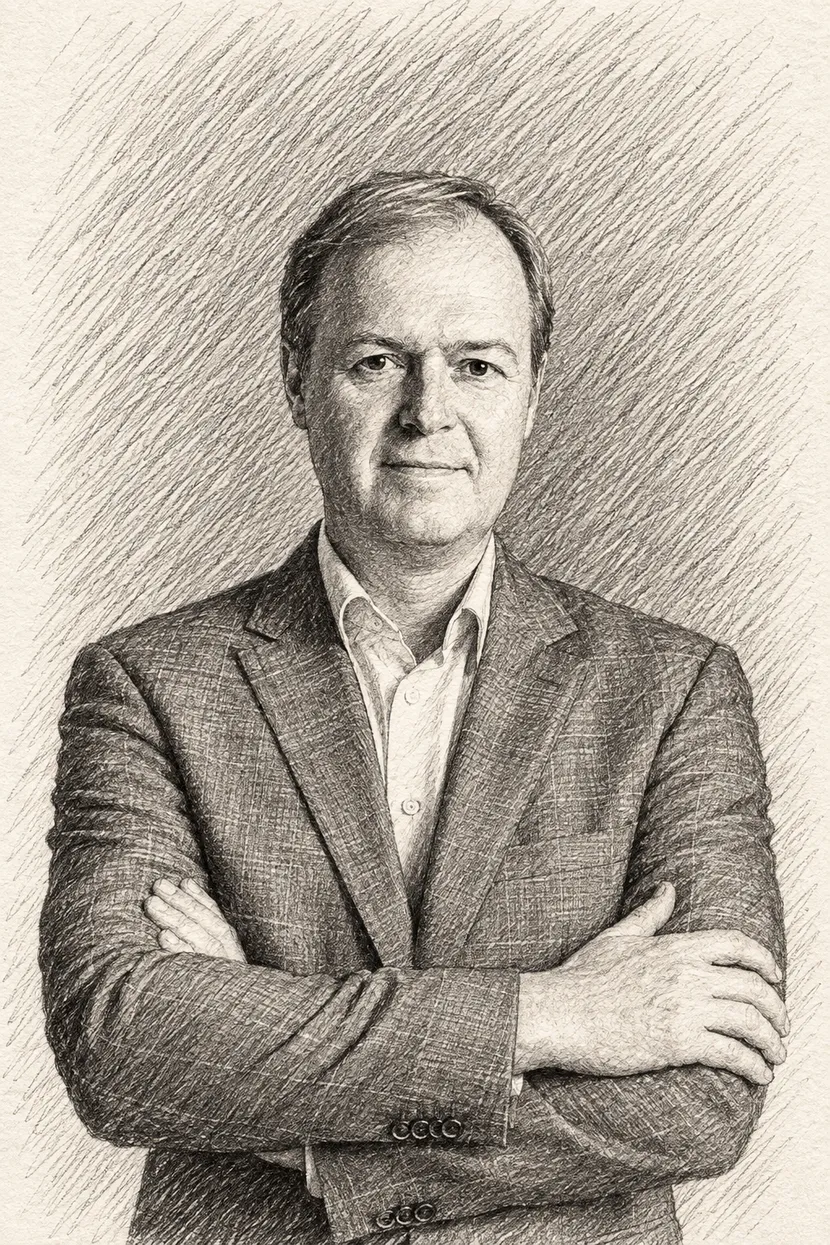
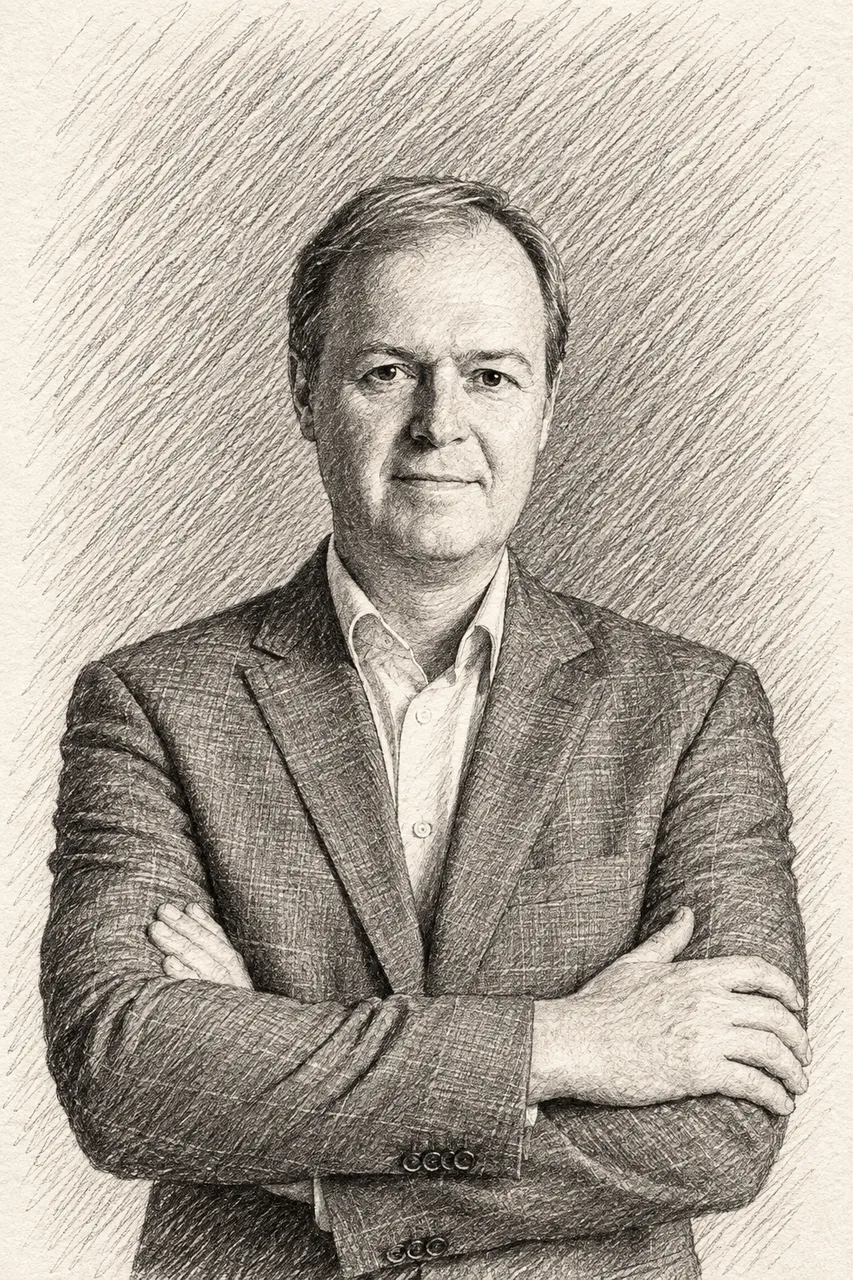
team: персональный зум фото (photoScale, Кошкин 1.15), новые фото Марины и Насти

diff --git a/fexperience/src/data/speakers.ts b/fexperience/src/data/speakers.ts
@@ -13,6 +13,7 @@ export type Speaker = {
   forbesBadge?: string; // текст бейджа Forbes на фото (если не указан — не показывается)
   forbesLabel?: string; // текст подписи Forbes в карточке (если не указан — не показывается)
   isForbes?: boolean; // команда Forbes Russia — блок «Наши эксперты» на /about
+  photoScale?: number; // персональный зум фото (1 = без изменений), чтобы выровнять крупность портретов
   linkedin?: string; // ссылка LinkedIn (иконка только при наличии)
   expeditionSlugs?: string[]; // slug экспедиций (спикер может быть на нескольких)
   category?: 'business' | 'investment' | 'government' | 'africa' | 'other' | 'pravo';
@@ -77,7 +78,7 @@ export const speakers: Speaker[] = [
     expeditionSlugs: ['south-africa'], category: 'business'
   },
   {
-    id: 10, name: 'Марина Матыцина', role: 'Генеральный директор Forbes Russia.', company: 'Forbes Russia', photo: '/images/speakers/MaticinaM.jpeg', photoAlt: 'Марина Матыцина — Генеральный директор Forbes Russia.',
+    id: 10, name: 'Марина Матыцина', role: 'Генеральный директор Forbes Russia.', company: 'Forbes Russia', photo: '/images/speakers/MaticinaM1_1.webp', photoAlt: 'Марина Матыцина — Генеральный директор Forbes Russia.',
     bio: '', isTop: true, topic: '', achievement: '',
     isForbes: true,
     forbesBadge: 'Forbes',
@@ -85,7 +86,7 @@ export const speakers: Speaker[] = [
     expeditionSlugs: ['south-africa', 'vietnam']
   },
   {
-    id: 11, name: 'Денис Кошкин', role: 'Исполнительный директор Forbes Russia', company: 'Forbes Russia', photo: '/images/speakers/koshkinD1_1.webp', photoAlt: 'Денис Кошкин — Исполнительный директор Forbes Russia',
+    id: 11, name: 'Денис Кошкин', role: 'Исполнительный директор Forbes Russia', company: 'Forbes Russia', photo: '/images/speakers/koshkinD1_1.webp', photoAlt: 'Денис Кошкин — Исполнительный директор Forbes Russia', photoScale: 1.15,
     bio: '', isTop: true, topic: '', achievement: '',
     isForbes: true,
     forbesBadge: 'Forbes',
@@ -93,7 +94,7 @@ export const speakers: Speaker[] = [
     expeditionSlugs: ['south-africa', 'vietnam']
   },
   {
-    id: 12, name: 'Анастасия Никитина', role: 'Директор по устойчивому развитию и международным проектам Forbes Russia', company: 'Forbes', photo: '/images/speakers/nicitinaA.jpg', photoAlt: 'Анастасия Никитина — Директор по устойчивому развитию и международным проектам Forbes Russia',
+    id: 12, name: 'Анастасия Никитина', role: 'Директор по устойчивому развитию и международным проектам Forbes Russia', company: 'Forbes', photo: '/images/speakers/nicitinaA1_1.webp', photoAlt: 'Анастасия Никитина — Директор по устойчивому развитию и международным проектам Forbes Russia',
     bio: '', isTop: true, topic: '', achievement: '',
     isForbes: true,
     forbesBadge: 'Forbes',

diff --git a/fexperience/src/app/globals.css b/fexperience/src/app/globals.css
@@ -3321,10 +3321,12 @@ body::before {
   object-fit: cover;
   /* Якорь вверх: лица не режем, лишку забираем снизу */
   object-position: center top;
+  /* Персональный зум из данных (photoScale) — выравнивает крупность портретов */
+  transform: scale(var(--photo-zoom, 1));
   transition: transform .4s var(--ease);
 }
 .about-expert-card:hover .about-expert-card__photo img {
-  transform: scale(1.03);
+  transform: scale(calc(var(--photo-zoom, 1) * 1.03));
 }
 .about-forbes-badge {
   position: absolute;

diff --git a/fexperience/src/app/about/AboutContent.tsx b/fexperience/src/app/about/AboutContent.tsx
@@ -277,6 +277,7 @@ export function AboutContent() {
                     loading="lazy"
                     quality={90}
                     sizes="(max-width: 640px) 100vw, (max-width: 1024px) 50vw, 33vw"
+                    style={expert.photoScale ? ({ '--photo-zoom': expert.photoScale } as React.CSSProperties) : undefined}
                   />
                   {expert.forbesBadge && (
                     <span className="about-forbes-badge">{expert.forbesBadge}</span>

diff --git a/fexperience/src/components/sections/ExpeditionExperts.tsx b/fexperience/src/components/sections/ExpeditionExperts.tsx
@@ -31,6 +31,7 @@ function ExpertCard({ expert }: { expert: Speaker }) {
           fill
           loading="lazy"
           sizes="(max-width: 640px) 100vw, (max-width: 1024px) 50vw, 33vw"
+          style={expert.photoScale ? ({ '--photo-zoom': expert.photoScale } as React.CSSProperties) : undefined}
         />
         {expert.forbesBadge && (
           <span className="about-forbes-badge">{expert.forbesBadge}</span>
